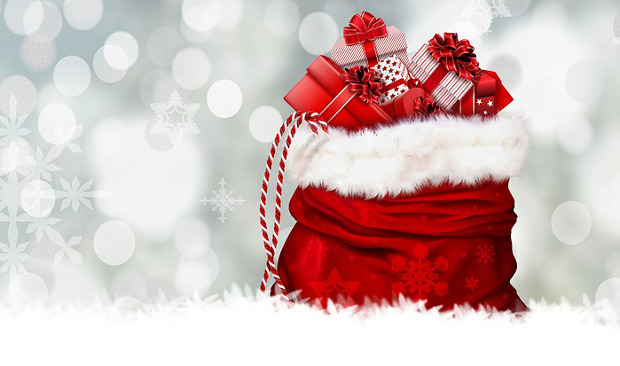
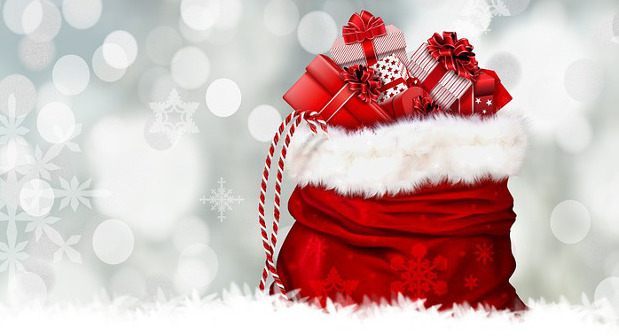
Change background, menu, and links

diff --git a/src/success.html b/src/success.html
@@ -26,7 +26,7 @@
 						<div class="container max width">
 
 							<h1 class="visually-hidden">Secret Santa Generator</h1>
-							<a href="index.html" class="one-brand text" title="Layout ONE">
+							<a href="index.html/" class="one-brand text" title="Layout ONE">
 								Secret Santa Generator</a>
 							<a href="index.html" class="one-btn-navbar collapsed" data-toggle="collapse" data-target=".one-nav-wrap.mobile">
 								<i class="fa fa-bars"></i>
@@ -53,55 +53,59 @@
 											</li>
 										</ul> -->
 									</li>
-									<li class="menu-item">
-										<a href="index.html/#article-add-member">
-											<span>Add member</span>
+									<li class="menu-item menu-item-has-children">
+										<a href="index.html/#article-easy-steps">
+											<span>3 Steps</span>
 										</a>
-									</li>
-									<li class="menu-item">
-										<a href="index.html/#members">
-											<span>Members</span>
-										</a>
+										<ul class="sub-menu">
+											<li class="menu-item">
+												<a href="index.html/#article-add-member">
+													<span>Add members</span>
+												</a>
+											</li>
+											<li class="menu-item">
+												<a href="index.html/#members">
+													<span>Draw secret santas</span>
+												</a>
+											</li>
+											<li class="menu-item">
+												<a href="index.html/#article-send-email">
+													<span>Send email</span>
+												</a>
+											</li>
+										</ul>
 									</li>
 								</ul>
 							</nav>
 
 							<div class="one-nav-wrap mobile collapse">
 								<ul class="one-nav">
-									<li class="menu-item menu-item-has-children">
+									<li class="menu-item">
 										<a href="index.html">
 											<span>Home</span>
 										</a>
-										<!--
+									</li>
+									<li class="menu-item menu-item-has-children">
+										<a href="index.html/#article-easy-steps">
+											<span>3 Steps</span>
+										</a>
 										<ul class="sub-menu">
-											<li class="menu-item menu-item-has-children">
-												<a href="index.html/holder">
-													<span>ONE</span>
+											<li class="menu-item">
+												<a href="index.html/#article-add-member">
+													<span>Add members</span>
 												</a>
-												<ul class="sub-menu">
-													<li class="menu-item">
-														<a href="">
-															<span>Link 1</span>
-														</a>
-													</li>
-													<li class="menu-item">
-														<a href="">
-															<span>Link 2</span>
-														</a>
-													</li>
-												</ul> 
 											</li>
-										</ul> -->
-									</li>
-									<li class="menu-item">
-										<a href="index.html/#article-add-member">
-											<span>Add member</span>
-										</a>
-									</li>
-									<li class="menu-item">
-										<a href="index.html/#members">
-											<span>Members</span>
-										</a>
+											<li class="menu-item">
+												<a href="index.html/#members">
+													<span>Draw secret santas</span>
+												</a>
+											</li>
+											<li class="menu-item">
+												<a href="index.html/#article-send-email">
+													<span>Send email</span>
+												</a>
+											</li>
+										</ul>
 									</li>
 								</ul>
 							</div>
@@ -113,25 +117,7 @@
 
 		<div class="container max width offset">
 			<div class="one-main full" role="main">
-
-				<article id="article-success" class="page type-page hentry no-post-thumbnail">
-					<div class="entry-thumb">
-						<img src="images/santa-snow.gif" alt="" />
-					</div>
-					<div class="entry-wrap">
-
-						<header class="entry-header">
-							<h4 class="h4">The Secret Santa For emails are being sent!
-							</h4>
-						</header>
-
-						<div class="entry-content">
-							<p>Your group will be receiving the email at any momment. If no email is found from tamato.org, please check your spam
-								folder, thank you. </p>
-						</div>
-
-					</div>
-				</article>
+				<article id="article-success" class="page type-page hentry no-post-thumbnail"></article>
 			</div>
 		</div>
 
@@ -148,7 +134,7 @@
 	<script type='text/javascript' src='scripts/one-bg.min.js'></script>
 	<script src="scripts/functionsLibrary.js"></script>
 	<script src="scripts/main.js"></script>
-	<script>jQuery.backstretch(['images/snow-bg.jpg'], { fade: 750 });</script>
+	<script>jQuery.backstretch(['images/snowman-bg.jpg'], { fade: 750 });</script>
 	<script src="scripts/loadHTML.js"></script>
 </body>
 

diff --git a/src/index.html b/src/index.html
@@ -53,55 +53,59 @@
 											</li>
 										</ul> -->
 									</li>
-									<li class="menu-item">
-										<a href="index.html/#article-add-member">
-											<span>Add member</span>
+									<li class="menu-item menu-item-has-children">
+										<a href="index.html/#article-easy-steps">
+											<span>3 Steps</span>
 										</a>
-									</li>
-									<li class="menu-item">
-										<a href="index.html/#members">
-											<span>Members</span>
-										</a>
+										<ul class="sub-menu">
+											<li class="menu-item">
+												<a href="index.html/#article-add-member">
+													<span>Add members</span>
+												</a>
+											</li>
+											<li class="menu-item">
+												<a href="index.html/#members">
+													<span>Draw secret santas</span>
+												</a>
+											</li>
+											<li class="menu-item">
+												<a href="index.html/#article-send-email">
+													<span>Send email</span>
+												</a>
+											</li>
+										</ul>
 									</li>
 								</ul>
 							</nav>
 
 							<div class="one-nav-wrap mobile collapse">
 								<ul class="one-nav">
-									<li class="menu-item menu-item-has-children">
+									<li class="menu-item">
 										<a href="index.html">
 											<span>Home</span>
 										</a>
-										<!--
+									</li>
+									<li class="menu-item menu-item-has-children">
+										<a href="index.html/#article-easy-steps">
+											<span>3 Steps</span>
+										</a>
 										<ul class="sub-menu">
-											<li class="menu-item menu-item-has-children">
-												<a href="index.htmlholder">
-													<span>ONE</span>
+											<li class="menu-item">
+												<a href="index.html/#article-add-member">
+													<span>Add members</span>
 												</a>
-												<ul class="sub-menu">
-													<li class="menu-item">
-														<a href="">
-															<span>Link 1</span>
-														</a>
-													</li>
-													<li class="menu-item">
-														<a href="">
-															<span>Link 2</span>
-														</a>
-													</li>
-												</ul> 
 											</li>
-										</ul> -->
-									</li>
-									<li class="menu-item">
-										<a href="index.html/#article-add-member">
-											<span>Add member</span>
-										</a>
-									</li>
-									<li class="menu-item">
-										<a href="index.html/#members">
-											<span>Members</span>
-										</a>
+											<li class="menu-item">
+												<a href="index.html/#members">
+													<span>Draw secret santas</span>
+												</a>
+											</li>
+											<li class="menu-item">
+												<a href="index.html/#article-send-email">
+													<span>Send email</span>
+												</a>
+											</li>
+										</ul>
 									</li>
 								</ul>
 							</div>
@@ -113,8 +117,6 @@
 
 		<div class="container max width offset">
 			<div class="one-main full" role="main">
-
-				<article id="article-filler" class="format-quote"></article>
 
 				<article id="article-easy-steps" class="format-standard hentry"></article>
 
@@ -141,7 +143,7 @@
 										</span>
 									</p>
 									<p>
-										<input type="submit" value="Add" id="add-member-btn" onclick="return false;"/>
+										<input type="submit" value="Add" id="add-member-btn" onclick="return false;" />
 										<img class="ajax-loader" src="images/ajax-loader.gif" alt="Adding..." style="visibility: hidden;" />
 									</p>
 								</form>
@@ -178,7 +180,7 @@
 	<script type='text/javascript' src='scripts/one-bg.min.js'></script>
 	<script src="scripts/functionsLibrary.js"></script>
 	<script src="scripts/main.js"></script>
-	<script>jQuery.backstretch(['images/snow-bg.jpg'], { fade: 750 });</script>
+	<script>jQuery.backstretch(['images/snowman-bg.jpg'], { fade: 750 });</script>
 	<script src="scripts/loadHTML.js"></script>
 </body>
 

diff --git a/src/partials/article-filler.html b/src/partials/article-filler.html
@@ -1,11 +1,11 @@
 <div class="entry-thumb">
-  <img src="images/santa.png" alt="" />
+  <img src="images/bears.jpg" alt="" />
 </div>
 <div class="entry-wrap">
   <header class="entry-header">
     <div class="one-hgroup">
       <h2 class="entry-title">
-        <a href="">Christmas is the spirit of giving without a thought of getting.</a>
+        Christmas is the spirit of giving without a thought of getting.
       </h2>
       <cite class="entry-title-sub">Thomas S. Monson</cite>
     </div>

diff --git a/src/partials/article-success.html b/src/partials/article-success.html
@@ -1,0 +1,15 @@
+<div class="entry-thumb">
+  <img src="images/christmas-gifts.jpg" alt="" />
+</div>
+<div class="entry-wrap">
+
+  <header class="entry-header">
+    <h4 class="h4">The Secret Santa emails are being sent!
+    </h4>
+  </header>
+
+  <div class="entry-content">
+    <p>Your group will be receiving the email at any momment. If no email is found in your inbox from tamato.org, please check your spam folder. </p>
+  </div>
+
+</div>

diff --git a/src/styles/style.css b/src/styles/style.css
@@ -181,7 +181,7 @@ h6,
 }
 
 .container.max {
-  max-width: 620px;
+  max-width: 510px;
 }
 
 .one-main.full {
@@ -338,10 +338,6 @@ body.one-navbar-fixed-top-active .one-navbar-wrap {
   border-color: #ba0b56;
   background-color: #ba0b56;
   text-shadow: 0 0.075em 0.075em rgba(0, 0, 0, 0.5);
-}
-
-#article-send-email {
-  display: none;
 }
 
 #footer-contact {

diff --git a/src/scripts/loadHTML.js b/src/scripts/loadHTML.js
@@ -17,3 +17,7 @@ $(document).ready(function() {
 $(document).ready(function() {
   $('#footer-contact').load('partials/footer-contact.html');
 });
+
+$(document).ready(function() {
+  $('#article-success').load('partials/article-success.html');
+});
